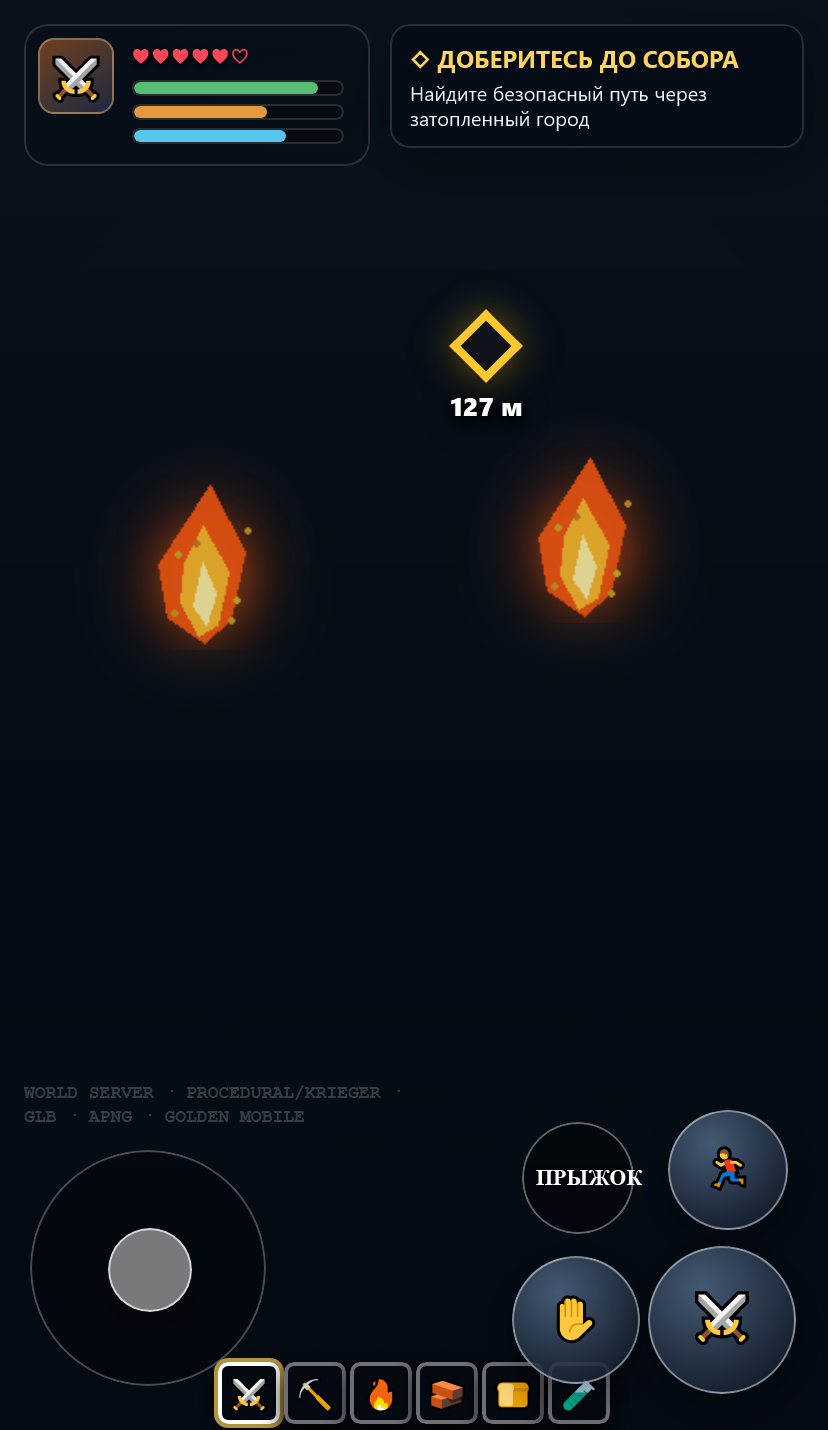
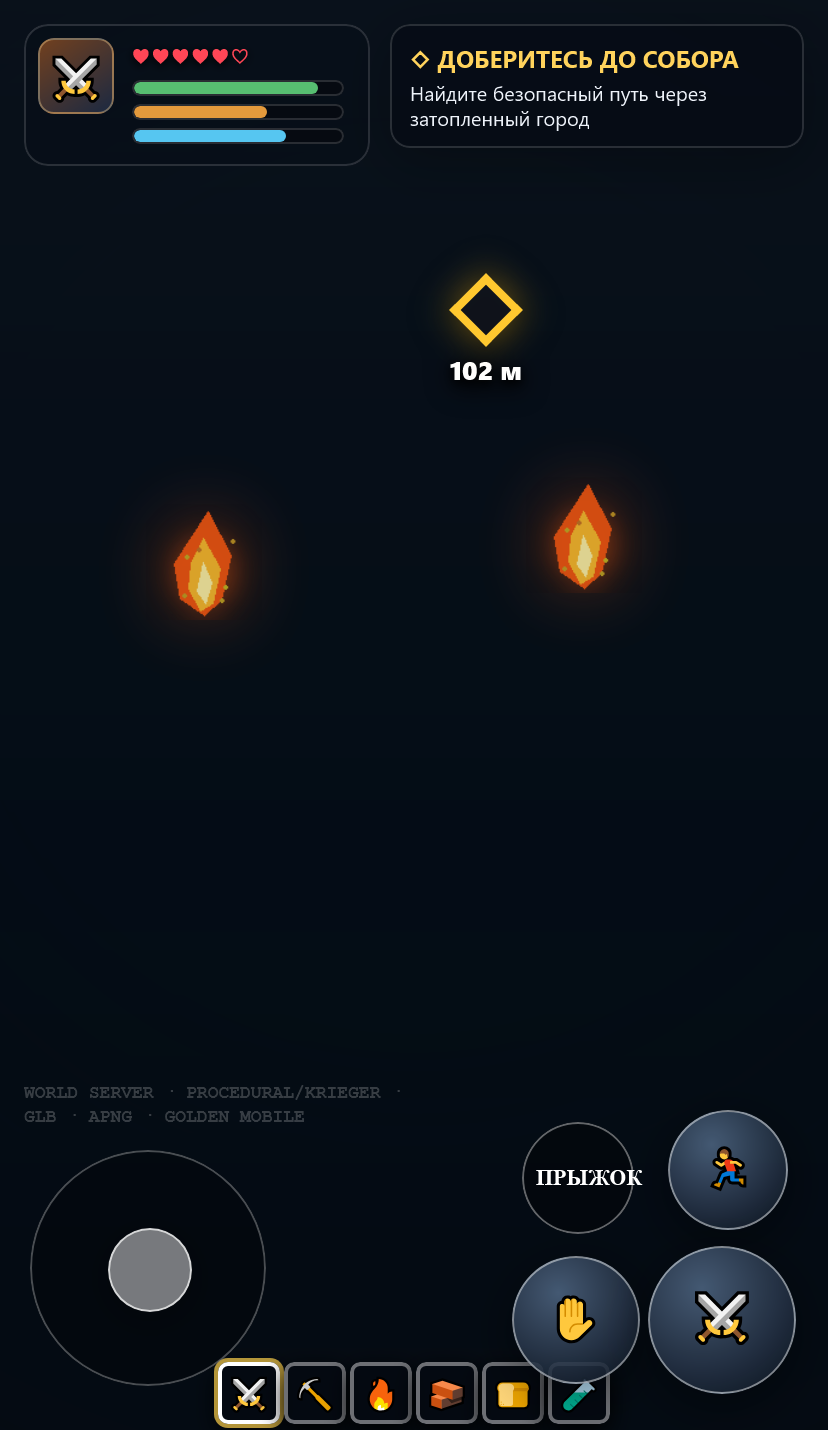
fix: improve flooded city portrait visibility

Changed region(s): [[0.6039, 0.3077, 0.785, 0.4615], [0.151, 0.3385, 0.3321, 0.4615], [0.5435, 0.1846, 0.6341, 0.3077]]

diff --git a/apps/flooded-cathedral-mvp/client.js b/apps/flooded-cathedral-mvp/client.js
@@ -5,13 +5,13 @@ const coarse=matchMedia('(pointer:coarse)').matches;
 const $=s=>document.querySelector(s);
 const clamp=(v,a,b)=>Math.max(a,Math.min(b,v));
 const hash=n=>{const x=Math.sin(n*12.9898+78.233)*43758.5453;return x-Math.floor(x);};
-const GOAL_Z=-132,WATER_Y=.48,STREET_W=16;
+const GOAL_Z=-105,WATER_Y=.48,STREET_W=16;
 const state={ready:false,visibilityPercent:0,userNoticeabilityPercent:0,playerModel:'pending',npcModel:'pending',apngSprites:2,proceduralBuildings:0,rainDrops:0,attackCount:0,enemyHits:0,playerZ:7,distanceMeters:128,missionComplete:false,kriegerTech:'instancing+procedural-geometry+fixed-budget'};
 window.__FLOODED_CATHEDRAL_MVP__=state;
 
 const scene=new THREE.Scene();
-scene.background=new THREE.Color(0x071426);
-scene.fog=new THREE.FogExp2(0x0b1b2b,coarse?.018:.015);
+scene.background=new THREE.Color(coarse?0x173753:0x102c48);
+scene.fog=new THREE.FogExp2(0x183a55,coarse?.006:.009);
 const camera=new THREE.PerspectiveCamera(66,innerWidth/innerHeight,.05,300);
 const renderer=new THREE.WebGLRenderer({antialias:true,powerPreference:'high-performance'});
 renderer.setPixelRatio(Math.min(devicePixelRatio,coarse?1.35:1.8));
@@ -24,12 +24,12 @@ renderer.shadowMap.type=THREE.PCFSoftShadowMap;
 document.body.prepend(renderer.domElement);
 window.GoldenPaintingAtmosphere?.registerThree?.({THREE,scene,renderer,getCamera:()=>camera,worldId:'flooded-cathedral-mvp'});
 window.WorldQualityAutopilot?.registerRenderer?.('flooded-cathedral-mvp',renderer,{initialTier:coarse?'BALANCED':'HIGH',targetFps:coarse?38:55,getStats(){return{calls:renderer.info.render.calls,triangles:renderer.info.render.triangles}}});
-const hemi=new THREE.HemisphereLight(0x7899c8,0x10131a,1.35);scene.add(hemi);
-const moon=new THREE.DirectionalLight(0x98b8ff,1.15);moon.position.set(-20,34,12);moon.castShadow=true;moon.shadow.mapSize.set(coarse?512:1024,coarse?512:1024);scene.add(moon);
+const hemi=new THREE.HemisphereLight(0x9bc9f3,0x171c25,2.05);scene.add(hemi);
+const moon=new THREE.DirectionalLight(0xb3d0ff,1.75);moon.position.set(-20,34,12);moon.castShadow=true;moon.shadow.mapSize.set(coarse?512:1024,coarse?512:1024);scene.add(moon);
 const warm=new THREE.DirectionalLight(0xffb25a,.38);warm.position.set(22,12,-40);scene.add(warm);
 const mats={
- stone:new THREE.MeshStandardMaterial({color:0x38404c,roughness:.88,metalness:.05}),
- stone2:new THREE.MeshStandardMaterial({color:0x202733,roughness:.92,metalness:.08}),
+ stone:new THREE.MeshStandardMaterial({color:0x566372,roughness:.88,metalness:.05}),
+ stone2:new THREE.MeshStandardMaterial({color:0x303b4a,roughness:.92,metalness:.08}),
  roof:new THREE.MeshStandardMaterial({color:0x0c1422,roughness:.78,metalness:.18}),
  road:new THREE.MeshStandardMaterial({color:0x252d36,roughness:.96}),
  window:new THREE.MeshStandardMaterial({color:0xffc36b,emissive:0xff8c2a,emissiveIntensity:2.5,roughness:.5}),
@@ -43,19 +43,25 @@ const ground=new THREE.Mesh(new THREE.BoxGeometry(STREET_W,.6,160),mats.road);gr
 for(const side of [-1,1]){const curb=new THREE.Mesh(new THREE.BoxGeometry(2,.85,160),mats.stone);curb.position.set(side*(STREET_W/2+1),.05,-60);curb.receiveShadow=true;scene.add(curb);}
 const waterGeo=new THREE.PlaneGeometry(80,190,30,46);waterGeo.rotateX(-Math.PI/2);
 const waterPos=waterGeo.attributes.position,waterBase=new Float32Array(waterPos.array);
-const waterMat=new THREE.MeshStandardMaterial({color:0x174f73,transparent:true,opacity:.78,roughness:.24,metalness:.16,emissive:0x071b2d,emissiveIntensity:.25,side:THREE.DoubleSide});
+const waterMat=new THREE.MeshStandardMaterial({color:0x23759b,transparent:true,opacity:.74,roughness:.2,metalness:.18,emissive:0x0b2c48,emissiveIntensity:.52,side:THREE.DoubleSide});
 const water=new THREE.Mesh(waterGeo,waterMat);water.position.set(0,WATER_Y,-60);water.receiveShadow=true;scene.add(water);
 function addInstancedCity(){
  const count=coarse?54:78,body=new THREE.InstancedMesh(boxGeo,mats.stone,count),roof=new THREE.InstancedMesh(coneGeo,mats.roof,count);
  const dummy=new THREE.Object3D();let n=0;
  for(let i=0;i<count;i++){
-  const side=i%2?-1:1,z=10-(i>>1)*4.15+(hash(i*4)-.5)*2.1,x=side*(12+hash(i*9)*13),w=3.2+hash(i*5)*4.8,d=3+hash(i*8)*5.4,h=8+hash(i*13)*20;
+  const side=i%2?-1:1,z=10-(i>>1)*4.15+(hash(i*4)-.5)*2.1,x=side*(8.7+hash(i*9)*8.6),w=3.2+hash(i*5)*4.8,d=3+hash(i*8)*5.4,h=9+hash(i*13)*22;
   dummy.position.set(x,h/2,z);dummy.scale.set(w,h,d);dummy.rotation.set(0,(hash(i*6)-.5)*.12,0);dummy.updateMatrix();body.setMatrixAt(n,dummy.matrix);
   dummy.position.set(x,h+.9,z);dummy.scale.set(Math.max(w,d)*.57,4+hash(i*19)*5,Math.max(w,d)*.57);dummy.rotation.set(0,0,0);dummy.updateMatrix();roof.setMatrixAt(n,dummy.matrix);n++;
  }
  body.castShadow=!coarse;body.receiveShadow=true;roof.castShadow=!coarse;roof.receiveShadow=true;scene.add(body,roof);state.proceduralBuildings=count;
 }
 addInstancedCity();
+function addStreetWindows(){
+ const count=48,windows=new THREE.InstancedMesh(boxGeo,mats.window,count),d=new THREE.Object3D();let n=0;
+ for(let lane=0;lane<2;lane++)for(let i=0;i<24;i++){const side=lane?1:-1,z=3-i*4.35,x=side*(8.15+hash(i+lane*19)*.45),y=2.6+(i%3)*2.05;d.position.set(x,y,z);d.scale.set(.38,.7,.12);d.updateMatrix();windows.setMatrixAt(n++,d.matrix);}
+ windows.castShadow=false;scene.add(windows);
+}
+addStreetWindows();
 
 function meshBox(parent,x,y,z,w,h,d,mat=mats.stone){const m=new THREE.Mesh(boxGeo,mat);m.position.set(x,y,z);m.scale.set(w,h,d);m.castShadow=!coarse;m.receiveShadow=true;parent.add(m);return m;}
 function meshCone(parent,x,y,z,r,h,mat=mats.roof){const m=new THREE.Mesh(coneGeo,mat);m.position.set(x,y+h/2,z);m.scale.set(r,h,r);m.castShadow=!coarse;parent.add(m);return m;}
@@ -75,7 +81,7 @@ function addBridge(z){
  for(const x of [-7.6,7.6]){meshBox(g,x,3.3,z,1.4,5.4,1.5,mats.stone2);meshCone(g,x,6,z,1.1,3,mats.roof);}
  for(const x of [-5,-2.5,0,2.5,5])meshBox(g,x,2.35,z+2.1,.18,2.3,.18,mats.wood);
 }
-addBridge(-43);addBridge(-93);
+addBridge(-22);addBridge(-58);addBridge(-88);
 function addLantern(x,z){
  const pole=new THREE.Mesh(cylGeo,mats.stone2);pole.position.set(x,2.1,z);pole.scale.set(.12,4,.12);scene.add(pole);
  const glow=new THREE.Mesh(new THREE.SphereGeometry(.18,8,6),mats.window);glow.position.set(x,4.25,z);scene.add(glow);
@@ -90,6 +96,7 @@ rainGeo.setAttribute('position',new THREE.BufferAttribute(rainData,3));
 const rain=new THREE.Points(rainGeo,new THREE.PointsMaterial({color:0xb9d7ee,size:.055,transparent:true,opacity:.65,depthWrite:false}));scene.add(rain);state.rainDrops=rainCount;
 const playerRoot=new THREE.Group();scene.add(playerRoot);let playerCharacter=null;
 const playerFallback=meshBox(playerRoot,0,1,0,.7,1.8,.55,mats.banner);
+const playerCape=meshBox(playerRoot,0,1.12,.31,.92,1.32,.08,mats.banner);playerCape.rotation.x=-.08;
 const player={pos:new THREE.Vector3(0,.02,7),yaw:0,pitch:-.12,sprintHeld:false,attackUntil:0,velY:0,onGround:true};
 async function loadPlayer(){try{playerCharacter=await loadActionForgePlayer({parent:playerRoot,scale:.92});playerCharacter.play('idle',{fade:0});playerFallback.visible=false;state.playerModel=playerCharacter.id;}catch(e){console.warn('player GLB fallback',e);state.playerModel='procedural-fallback';}}
 const npcRoot=new THREE.Group();npcRoot.position.set(-4.8,0,-30);npcRoot.rotation.y=-.4;scene.add(npcRoot);let npcCharacter=null;

diff --git a/apps/flooded-cathedral-mvp/index.html b/apps/flooded-cathedral-mvp/index.html
@@ -51,7 +51,7 @@ canvas{position:fixed!important;inset:0;width:100%!important;height:100%!importa
   #goldenMobileControls #goldenMoveKnob{left:38px!important;top:38px!important;width:42px!important;height:42px!important}
   #goldenMobileControls #goldenLookPad{display:none!important}
   #goldenMobileControls #goldenJump{right:97px!important;bottom:98px!important;width:56px!important;height:56px!important}
-  #hotbar{bottom:max(3px,env(safe-area-inset-bottom));gap:2px}.slot{width:31px;height:31px;font-size:16px}#combatHint{display:none}#tech{bottom:150px;opacity:.35}
+  #hotbar{bottom:max(3px,env(safe-area-inset-bottom));gap:2px}.slot{width:31px;height:31px;font-size:16px}.apng{width:58px;height:58px}#combatHint{display:none}#tech{bottom:150px;opacity:.35}
 }
 </style>
 <script type="importmap">{"imports":{"three":"https://unpkg.com/three@0.165.0/build/three.module.js","three/addons/":"https://unpkg.com/three@0.165.0/examples/jsm/"}}</script>
